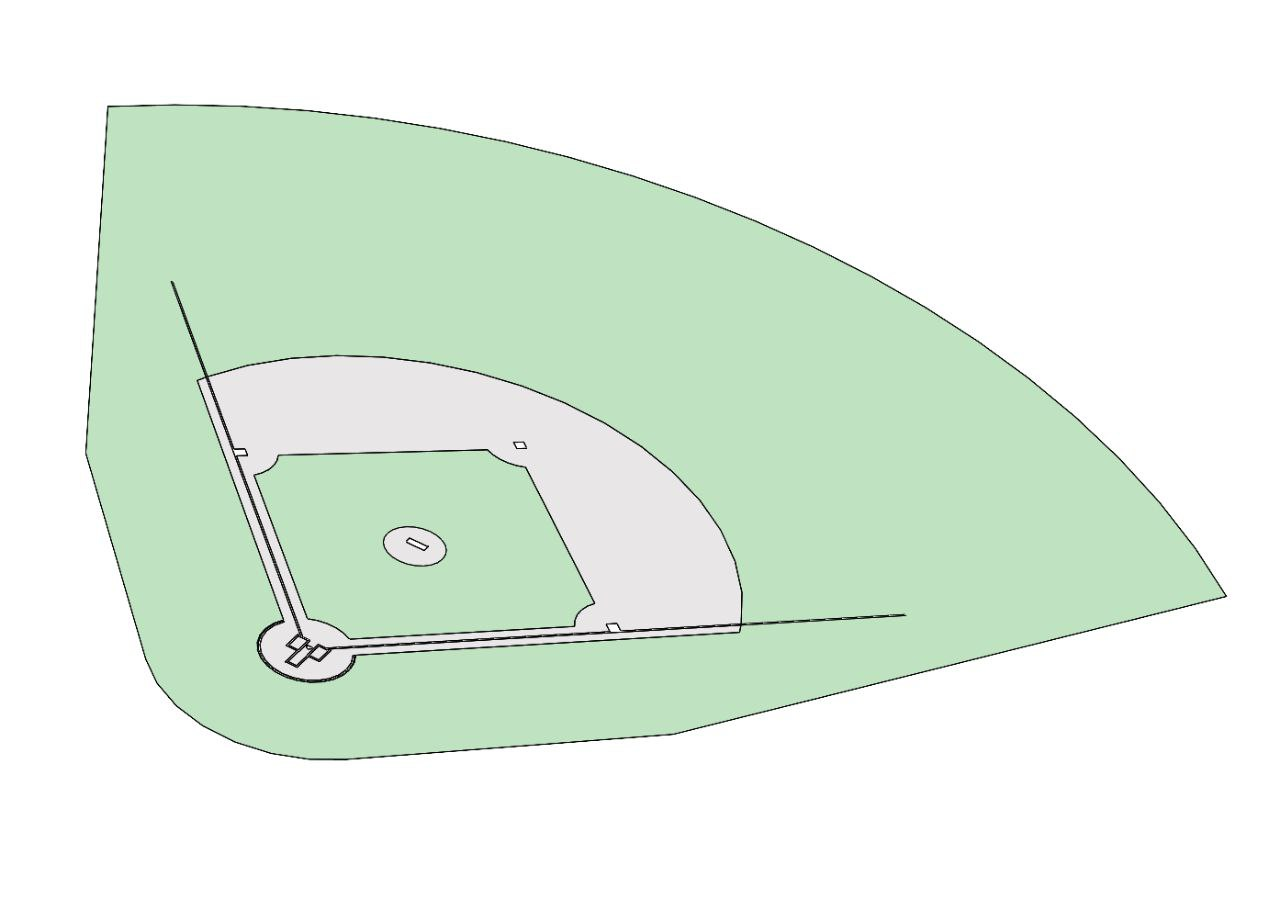
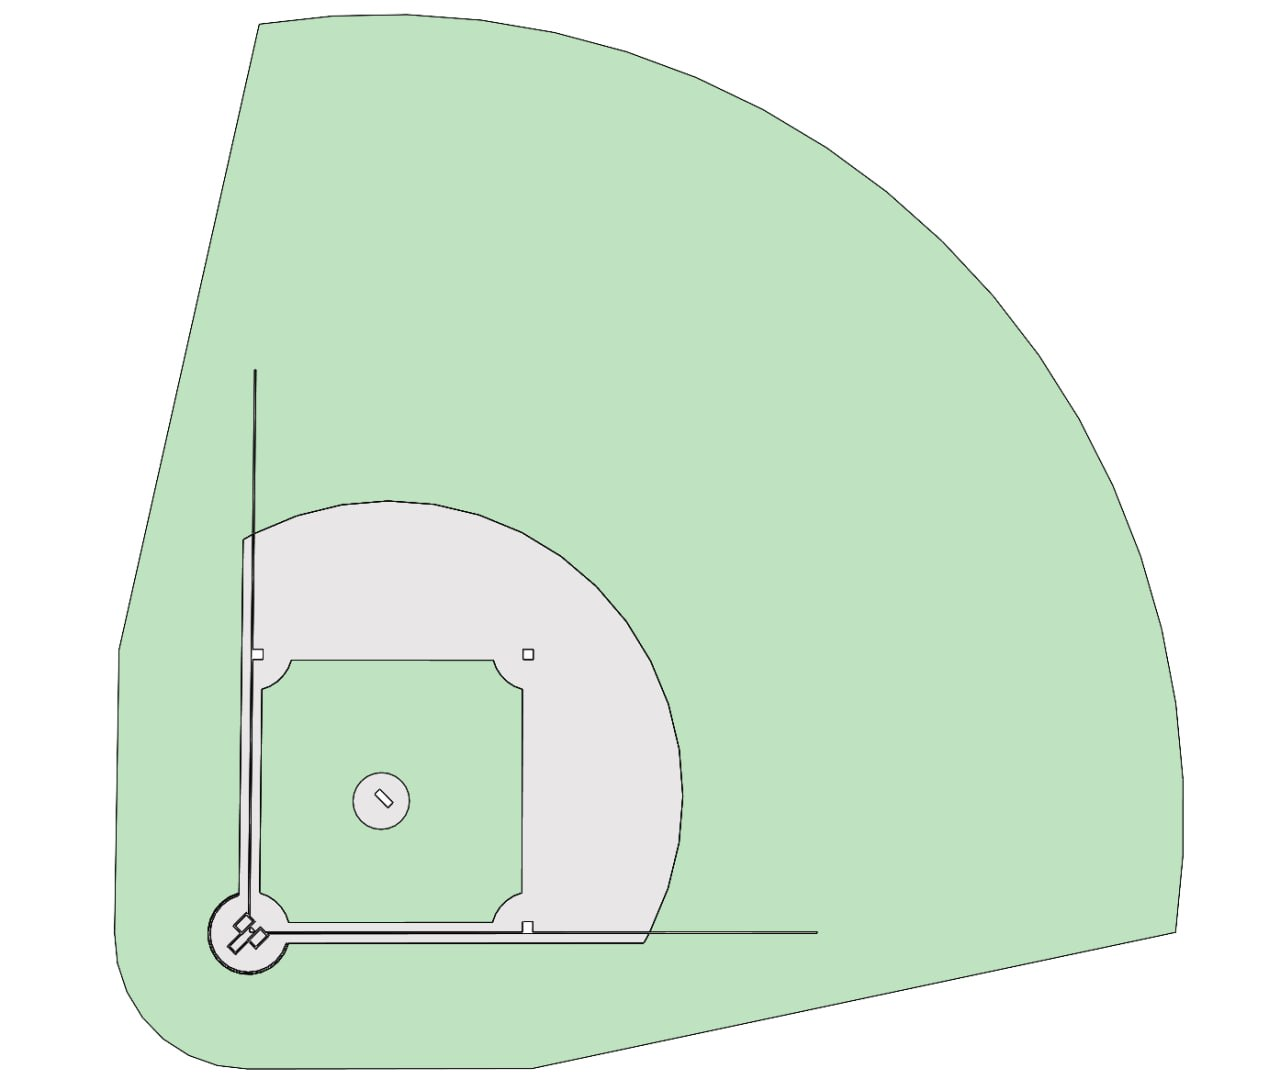
feat: change hitting field
* orto camera

* rotation, reset

* background image

diff --git a/src/components/Game/PlaysHitting/HittingField/HittingField.js b/src/components/Game/PlaysHitting/HittingField/HittingField.js
@@ -1,14 +1,35 @@
-import React, { Suspense, useMemo } from 'react';
-import cl from './PlaysHitting.module.scss';
+import React, { Suspense, useMemo, useState, useRef } from 'react';
+import cl from './HittingField.module.scss';
 import { Canvas } from '@react-three/fiber';
 import { TextureLoader } from 'three';
 import { OrbitControls } from '@react-three/drei';
 import FieldBg from 'images/field_right.jpg';
+import classNames from 'classnames';
+
+const OptionsBar = ({ isAutoRotate, handleAutoRotateClick, handleResetClick }) => {
+  const rotateBtnClass = classNames({
+    [cl.active]: isAutoRotate
+  });
+
+  return (
+    <div className={cl.optionsBarWrapper}>
+      <div className={cl.optionsBar}>
+        <button onClick={handleAutoRotateClick} className={rotateBtnClass}>
+          Auto-rotate
+        </button>
+        <button onClick={handleResetClick}>Reset field</button>
+      </div>
+    </div>
+  );
+};
 
 const HittingField = ({ hit }) => {
   const { data_2d } = hit || 0;
+  const [isAutoRotate, setAutoRotate] = useState(false);
 
-	const textureRef = useMemo(() => new TextureLoader().load(FieldBg), [])
+  const textureRef = useMemo(() => new TextureLoader().load(FieldBg), []);
+
+  const controlsRef = useRef();
 
   // let ballPath = data_2d ? `M${data_2d[0][0]} ${data_2d[0][1]}` : '';
   // data_2d && data_2d.slice(1).forEach(coords => (ballPath += `L${coords[0]} ${coords[1]}`));
@@ -20,26 +41,26 @@ const HittingField = ({ hit }) => {
   //   : '';
 
   // const setCords = e => {
-	// 	console.log(e);
+  // 	console.log(e);
   //   setCameraCoords([e.point.x, e.point.y, e.point.z]);
   // };
 
+  const handleAutoRotateClick = () => setAutoRotate(prev => !prev);
+  const handleResetClick = () => controlsRef.current.reset();
+
   return (
     <div className={cl.field}>
-      {/* <Canvas> */}
-      {/* <Canvas camera={{ position: [-150, 300, 300] }}> */}
-        <Canvas camera={{ position: [0, 550, 200] }}>
+      <Canvas
+        className={cl.canvas}
+        camera={{ position: [0, 700, 1000], far: 3000, zoom: 0.34 }}
+        orthographic={true}>
         <Suspense fallback={null}>
-          {/* <mesh position={[0, 0, -120]}> */}
           <mesh position={[0, 0, 50]} rotation={[-Math.PI / 2, 0, 0]}>
-          {/* <mesh position={[0, 0, -120]} rotation={[-Math.PI / 2, 0, 0]} onClick={setCords}> */}
-          {/* <mesh position={[270, 0, -120]} rotation={[-Math.PI / 2, 0, 0]} onClick={setCords}> */}
-            <planeGeometry args={[1280, 918]} />
+            <planeGeometry args={[1280, 1090]} />
             <meshBasicMaterial map={textureRef} toneMapped={false} />
           </mesh>
           {data_2d?.map(coord => (
-            <mesh position={[coord[0]/3.5 - 450, coord[2] * 20, (coord[1] - 1490 ) / 3+ 150]}>
-            {/* <mesh position={[coord[0] - 795 + 270, coord[2] * 30, (coord[1] - 1490 - 120) / 2]}> */}
+            <mesh position={[coord[0] / 3.5 - 450, coord[2] * 20, (coord[1] - 1490) / 3 + 150]}>
               <sphereGeometry args={[5, 40, 40]} />
               <meshStandardMaterial color={'blue'} />
             </mesh>
@@ -47,31 +68,33 @@ const HittingField = ({ hit }) => {
           {data_2d
             ?.filter(coords => coords[3] === 1)
             .map(coord => (
-              <mesh position={[coord[0]/3.5 - 450, coord[2] * 20, (coord[1] - 1490 ) / 3+ 150]}>
-              {/* <mesh position={[coord[0] - 795 + 270, coord[2] * 30, (coord[1] - 1490 - 120) / 2]}> */}
+              <mesh position={[coord[0] / 3.5 - 450, coord[2] * 20, (coord[1] - 1490) / 3 + 150]}>
                 <sphereGeometry args={[5, 40, 40]} />
                 <meshStandardMaterial color={'red'} />
               </mesh>
             ))}
-          {/* <mesh position={[50, 50, 50]}>
-            <sphereGeometry args={[5, 40, 40]} />
-            <meshStandardMaterial color={'blue'} />
-          </mesh>
-          <mesh position={[150, 100, 150]}>
-            <sphereGeometry args={[5, 40, 40]} />
-            <meshStandardMaterial color={'blue'} />
-          </mesh> */}
 
-          <ambientLight
-            // position={[0, 1.5, 0]}
-            intensity={1}
+          <ambientLight intensity={1} />
+
+          <OrbitControls
+            enableZoom={true}
+            autoRotate={isAutoRotate}
+            maxPolarAngle={Math.PI / 2.2}
+            minZoom={0.22}
+            maxZoom={3}
+            zoomSpeed={1.5}
+            enableDamping={false}
+            rotateSpeed={1.2}
+            ref={controlsRef}
           />
-          {/* <directionalLight /> */}
-
-          <OrbitControls enableZoom={true} />
-          {/* <color attach='background' args={['white']} /> */}
         </Suspense>
       </Canvas>
+
+      <OptionsBar
+        isAutoRotate={isAutoRotate}
+        handleAutoRotateClick={handleAutoRotateClick}
+        handleResetClick={handleResetClick}
+      />
 
       {/* <div className={cl.fieldBg}>
         <svg width='100%' height='100%' viewBox='0 0 2560 2560' fill='none' preserveAspectRatio='none'>

diff --git a/src/components/Game/PlaysHitting/HittingField/HittingField.module.scss b/src/components/Game/PlaysHitting/HittingField/HittingField.module.scss
@@ -1,0 +1,67 @@
+.field {
+  grid-area: field;
+  background-color: white;
+  width: 100%;
+  height: 100%;
+  position: relative;
+
+  @media screen and (max-width: 800px) {
+    border-top: 0.5px solid #cdcccc;
+  }
+  @media screen and (orientation: landscape) and (max-width: 1000px) and (max-height: 800px) {
+    border-top: 0.5px solid #cdcccc;
+    height: calc(100vh - 26px - 70px - 28px - var(--landscape-nav-height));
+  }
+
+  // .fieldBg {
+  //   background: no-repeat url('../../../images/field_right.jpg') center / 100% 100%;
+  //   height: 100%;
+  //   width: 100%;
+  //   aspect-ratio: 1;
+  //   margin: 0 auto;
+  // }
+}
+
+.canvas {
+  cursor: grab;
+
+  &:active {
+    cursor: grabbing;
+  }
+}
+
+.optionsBarWrapper {
+	position: absolute;
+  top: -15%;
+  left: 2%;
+  right: 2%;
+	padding-bottom: .7rem;
+  
+	transition: top var(--transition-speed);
+
+  &:hover {
+    top: 0;
+  }
+}
+
+.optionsBar {
+  padding: 0.7rem;
+  background: #e0f0ff;
+  border-radius: 0 0 3px 3px;
+  display: flex;
+	gap: 0.7rem;
+  justify-content: space-between;
+
+  > * {
+    flex: 1;
+    background: white;
+    border-radius: 4px;
+    line-height: 1.5;
+    transition: background-color var(--transition-speed), color var(--transition-speed);
+  }
+}
+
+.active {
+  background: var(--side-color);
+  color: white;
+}

diff --git a/src/components/Game/PlaysHitting/PlaysHitting.module.scss b/src/components/Game/PlaysHitting/PlaysHitting.module.scss
@@ -1,26 +1,3 @@
-.field {
-  grid-area: field;
-  background-color: white;
-  width: 100%;
-  height: 100%;
-
-  @media screen and (max-width: 800px) {
-    border-top: 0.5px solid #cdcccc;
-  }
-  @media screen and (orientation: landscape) and (max-width: 1000px) and (max-height: 800px) {
-    border-top: 0.5px solid #cdcccc;
-    height: calc(100vh - 26px - 70px - 28px - var(--landscape-nav-height));
-  }
-
-  .fieldBg {
-    background: no-repeat url('../../../images/field_right.jpg') center / 100% 100%;
-    height: 100%;
-    width: 100%;
-    aspect-ratio: 1;
-    margin: 0 auto;
-  }
-}
-
 .stats {
   grid-area: stats;
   background-color: white;

diff --git a/src/components/Game/PlaysHitting/PlaysHitting.js b/src/components/Game/PlaysHitting/PlaysHitting.js
@@ -2,7 +2,7 @@ import React, { useState } from 'react';
 import { useSelector } from 'react-redux';
 // import PlaysBat from '../PlaysBat/PlaysBat';
 // import PlaysStats from '../PlaysStats/PlaysStats';
-import HittingField from './HittingField';
+import HittingField from './HittingField/HittingField';
 import HittingGraph from './HittingGraph';
 import HittingStats from './HittingStats';
 import HittingVideos from './HittingVideos/HittingVideos';
